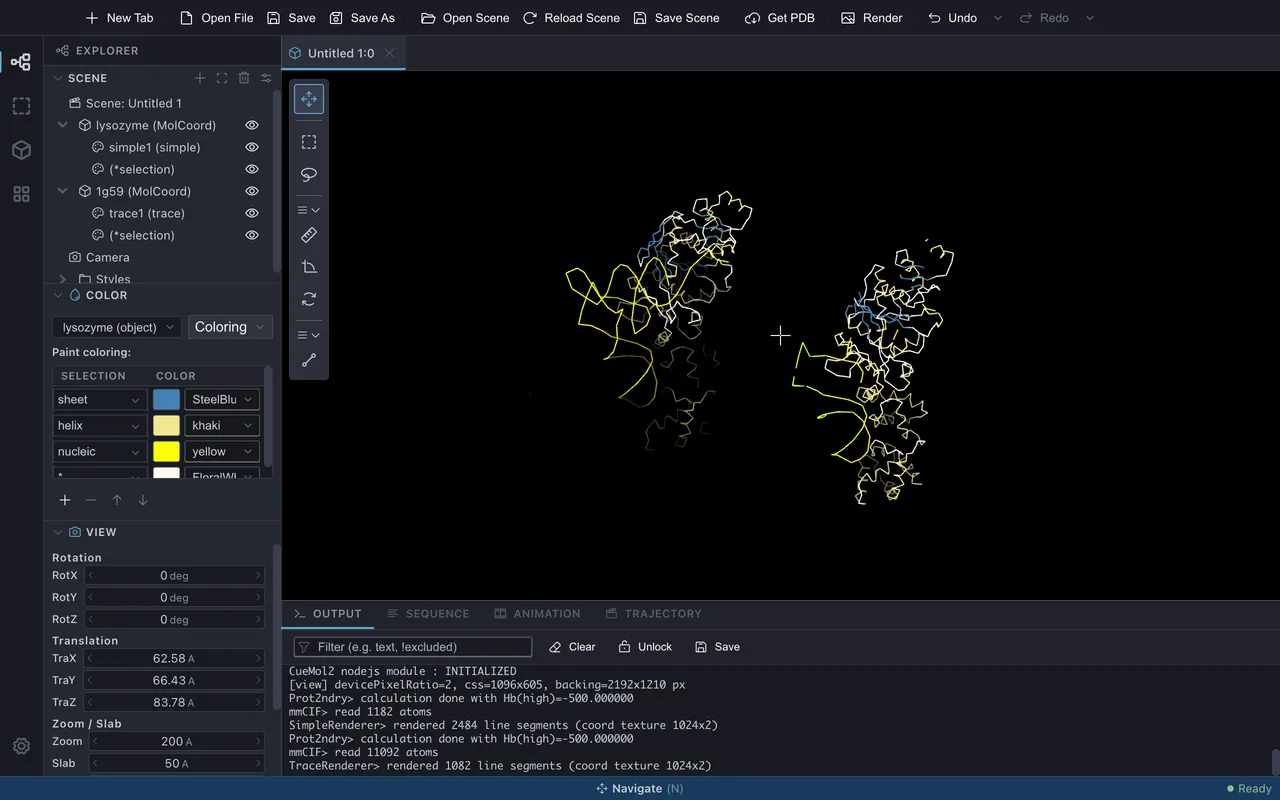
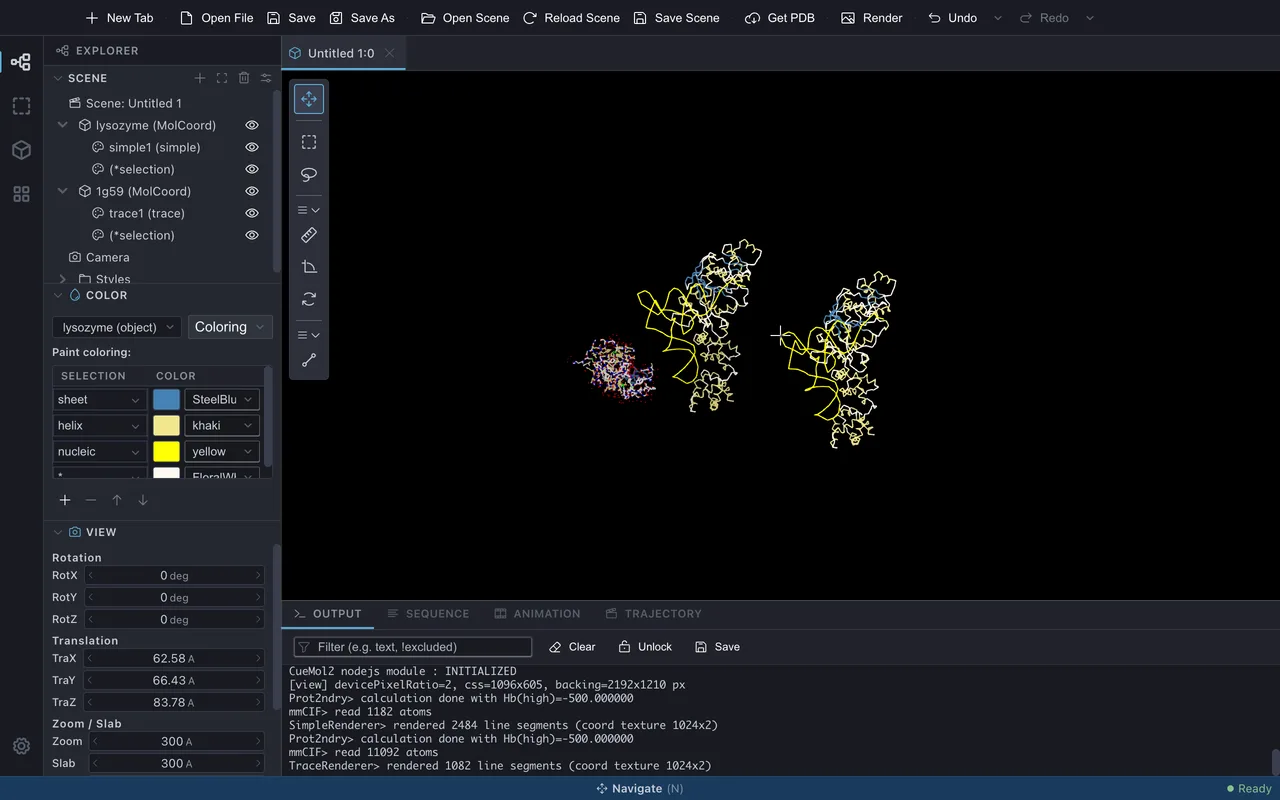
Widen the slab, not just the zoom, to show both structures
The section 3 figure did not show what the text claimed. The two shapes
in it are 1G59's two copies of the complex (its asymmetric unit holds two
protein chains and two tRNAs); lysozyme was not in the frame at all.

Widening Zoom alone cannot bring it in: lysozyme sits about 100 A from
1G59, well outside the default 50 A slab, so it is clipped in depth. The
page now sets Zoom and Slab to 300 in two steps and explains why the slab
matters, which also gives the term introduced in section 2 a concrete use.
The figure now matches the CueMol2 tutorial's composition (both complexes
plus lysozyme as a small dense line model on the left), and the page notes
that the Focus button fits the viewpoint to a selected object.

Changed region(s): [[0.4375, 0.25, 0.75, 0.625], [0.125, 0.9375, 0.1562, 0.9688]]

diff --git a/docs-verify/specs/basic/loading.spec.ts b/docs-verify/specs/basic/loading.spec.ts
@@ -96,8 +96,11 @@ test.describe.serial('構造の読み込みと表示', { tag: '@net' }, () => {
         await expectRow(harness.window, SECOND_OBJ);
         await expectRow(harness.window, 'trace1');
 
-        // 「読み込むと視点は新しい分子に移ります。Zoom を 200 にすると両方が入ります」
-        await setViewValue(harness.window, 'Zoom', 200);
+        // 「1. Zoom に 300 と入力します」「2. Slab に 300 と入力します」
+        // Widening Zoom alone is not enough: the default 50 A slab clips
+        // lysozyme, which sits about 100 A away from 1g59.
+        await setViewValue(harness.window, 'Zoom', 300);
+        await setViewValue(harness.window, 'Slab', 300);
         await docShot(harness.window, `${SHOT}/3-two-objects`);
     });
 

diff --git a/docs/ja/tutorials/basic/loading.md b/docs/ja/tutorials/basic/loading.md
@@ -99,13 +99,26 @@ Zoom は分子ビューに映す範囲の高さ (Å) です。値を小さくす
 
 3. **Object name** は既定のまま (`1g59`) にして **Open** を押します
 
-タンパク質は Cα 原子、核酸はリン原子だけをつないだ軽量な表示で描かれます。
+タンパク質は Cα 原子、核酸はリン原子だけをつないだ軽量な表示で描かれます。1G59 の
+非対称単位には複合体が 2 組 (タンパク質 2 本 + tRNA 2 本) 入っているので、同じ形が
+2 つ現れます。
 
 読み込むと視点は新しい分子へ移る (**Center view on molecule after loading** が既定でオン)
-ため、この時点ではリゾチームは画面の外にあります。§2 と同じ要領で **Zoom** を `200` に
-すると、2 つの Object が並んで見えます。
+ため、この時点ではリゾチームは見えません。両方を同時に見るには、§2 と同じ要領で View
+パネルの 2 つの値を広げます。
 
-![lysozyme と 1g59 が並んで表示されたところ](../../../assets/images/tutorials/basic/loading/3-two-objects.webp){ .on-glb }
+1. **Zoom** に `300` と入力します
+2. **Slab** に `300` と入力します
+
+Zoom だけを広げても見えるようにはなりません。**Slab** (奥行き方向に表示する厚み) が
+既定の 50 Å のままだと、1G59 から 100 Å ほど離れた位置にあるリゾチームは奥行きで
+切り落とされてしまうためです。両方を広げると、1G59 の複合体 2 組と、その左側に
+小さくリゾチームが入ります。
+
+![1g59 の複合体 2 組と lysozyme (左側の小さな塊) が入った表示](../../../assets/images/tutorials/basic/loading/3-two-objects.webp){ .on-glb }
+
+特定の Object だけを見たいときは、シーンツリーでその行を選び、パネル上部の **Focus**
+ボタンを押します。その Object に合わせて Zoom と Slab が自動で調整されます。
 
 ## 4. Scene・Object・Renderer・View
 
